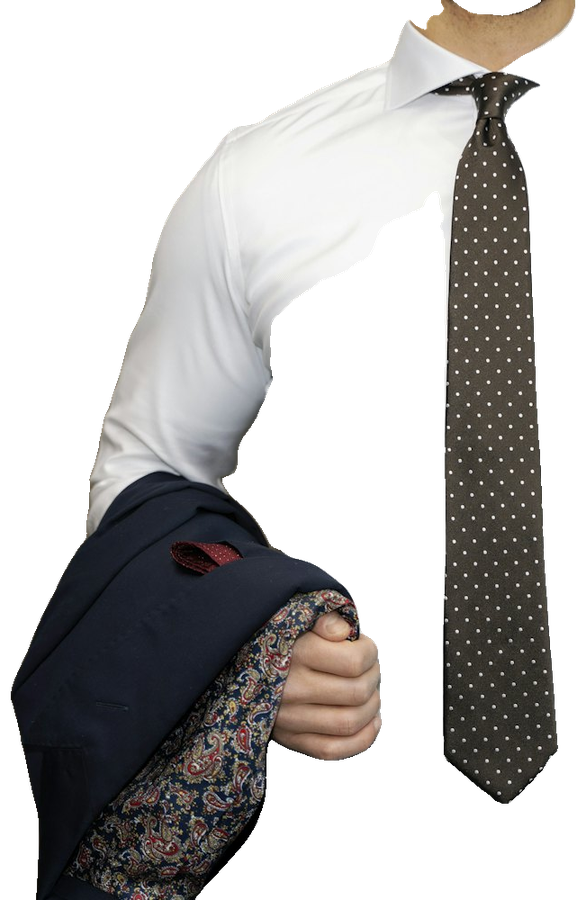
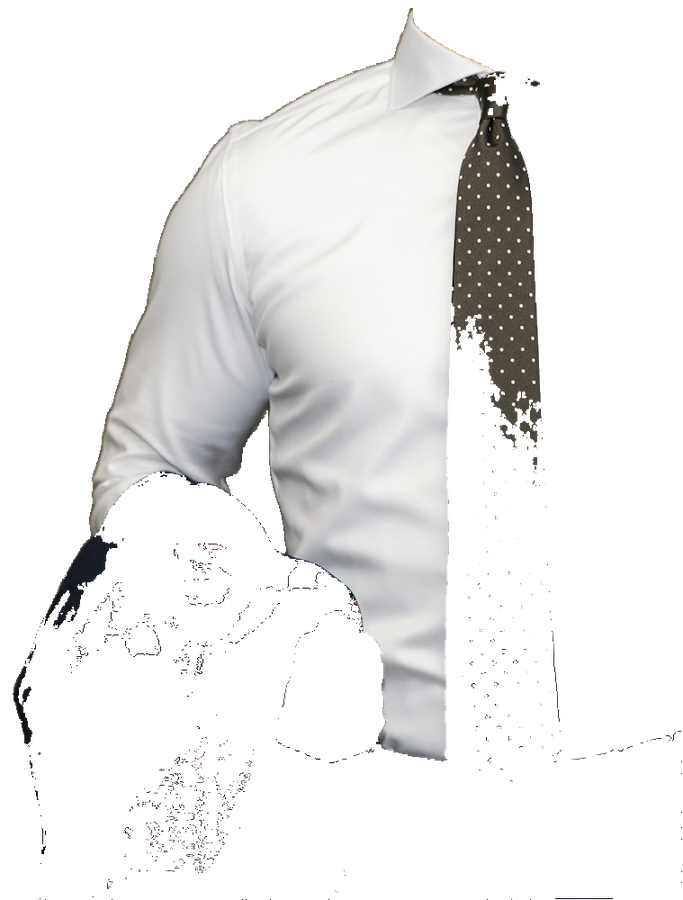
fix(vestidor): mangas de columna completa, linea de hombros medida en el PNG y prendas aisladas con segmentacion de ropa

diff --git a/mobile/lib/features/virtual_fitting/garment_painter.dart b/mobile/lib/features/virtual_fitting/garment_painter.dart
@@ -31,6 +31,42 @@ class PreviewMapper {
   }
 }
 
+/// Dónde está la línea de hombros dentro del PNG, como fracción de su alto.
+/// Se calcula mirando el alfa: la primera fila en la que la prenda ya es
+/// ancha. Así un gancho de percha o una mano angosta arriba no desplazan la
+/// prenda hacia abajo.
+Future<double> measureShoulderLine(ui.Image image) async {
+  final data = await image.toByteData(format: ui.ImageByteFormat.rawRgba);
+  if (data == null) return GarmentPainter.defaultShoulderY;
+  final w = image.width;
+  final h = image.height;
+  final step = math.max(1, (math.max(w, h) / 160).round());
+  final widths = <int>[];
+  for (var y = 0; y < h; y += step) {
+    var first = -1;
+    var last = -1;
+    for (var x = 0; x < w; x += step) {
+      if (data.getUint8((y * w + x) * 4 + 3) > 40) {
+        if (first < 0) first = x;
+        last = x;
+      }
+    }
+    widths.add(first < 0 ? 0 : last - first + step);
+  }
+  if (widths.isEmpty) return GarmentPainter.defaultShoulderY;
+  final maxWidth = widths.reduce(math.max);
+  if (maxWidth == 0) return GarmentPainter.defaultShoulderY;
+  for (var i = 0; i < widths.length; i++) {
+    if (widths[i] >= maxWidth * .6) {
+      final y = i * step / h;
+      // Un poco por debajo del borde: el cuello suele sobresalir de la línea
+      // de hombros.
+      return (y + .03).clamp(0, .5);
+    }
+  }
+  return GarmentPainter.defaultShoulderY;
+}
+
 /// Dibuja la prenda (PNG recortado o forma vectorial) siguiendo hombros y
 /// brazos, y opcionalmente los puntos del cuerpo.
 class GarmentPainter extends CustomPainter {
@@ -42,12 +78,18 @@ class GarmentPainter extends CustomPainter {
     required this.sleeves,
     required this.scale,
     required this.showPoints,
+    this.shoulderY = defaultShoulderY,
     this.showGarment = true,
   });
+
+  static const double defaultShoulderY = .08;
 
   final BodyPose? pose;
   final Size previewSize;
   final ui.Image? garment;
+
+  /// Fracción del alto del PNG donde está la línea de hombros.
+  final double shoulderY;
   final Color fallbackColor;
   final SleeveMode sleeves;
 
@@ -59,11 +101,11 @@ class GarmentPainter extends CustomPainter {
   // Proporciones del PNG (ya recortado a la silueta): los hombros caen en
   // x = 25 % / 75 % del ancho y en y = 8 % del alto; las mangas viven en las
   // franjas laterales.
+  // Las franjas laterales abarcan toda la altura: así la manga (corta o larga,
+  // colgando o extendida) rota entera con el brazo y no queda un pedazo
+  // pegado al torso. En manga larga la franja se parte a la altura del codo.
   static const double _shoulderX = .25;
-  static const double _shoulderY = .08;
-  static const double _shortSleeveBottom = .45;
   static const double _elbowY = .45;
-  static const double _longSleeveBottom = .82;
 
   /// Ángulo (respecto de la vertical) con el que cuelgan las mangas en la foto.
   static const double _restSpread = .30;
@@ -105,22 +147,15 @@ class GarmentPainter extends CustomPainter {
     canvas.translate(g.shoulderMid.x, g.shoulderMid.y);
     canvas.rotate(g.angle);
     canvas.scale(s);
-    canvas.translate(-w / 2, -h * _shoulderY);
+    canvas.translate(-w / 2, -h * shoulderY);
     if (sleeves != SleeveMode.none) {
-      final bottom = _sleeveBottom * h;
-      final clip = Path()
-        ..fillType = PathFillType.evenOdd
-        ..addRect(Rect.fromLTWH(0, 0, w, h))
-        ..addRect(Rect.fromLTWH(0, 0, w * _shoulderX, bottom))
-        ..addRect(Rect.fromLTWH(w * (1 - _shoulderX), 0, w * _shoulderX, bottom));
-      canvas.clipPath(clip);
+      canvas.clipRect(
+        Rect.fromLTWH(w * _shoulderX, 0, w * (1 - 2 * _shoulderX), h),
+      );
     }
     canvas.drawImage(image, Offset.zero, paint);
     canvas.restore();
   }
-
-  double get _sleeveBottom =>
-      sleeves == SleeveMode.long ? _longSleeveBottom : _shortSleeveBottom;
 
   void _paintSleeve(
     Canvas canvas,
@@ -149,7 +184,7 @@ class GarmentPainter extends CustomPainter {
         rotation: arm.upper.angle - rest,
         scale: s,
         src: Rect.fromLTWH(stripX, 0, stripWidth, upperBottom),
-        offset: Offset(-anchorX, -h * _shoulderY),
+        offset: Offset(-anchorX, -h * shoulderY),
       );
       _drawStrip(
         canvas,
@@ -158,12 +193,7 @@ class GarmentPainter extends CustomPainter {
         anchor: arm.lower.start,
         rotation: arm.lower.angle - rest,
         scale: s,
-        src: Rect.fromLTWH(
-          stripX,
-          upperBottom,
-          stripWidth,
-          h * (_longSleeveBottom - _elbowY),
-        ),
+        src: Rect.fromLTWH(stripX, upperBottom, stripWidth, h - upperBottom),
         offset: Offset(-stripWidth / 2, 0),
       );
       return;
@@ -175,8 +205,8 @@ class GarmentPainter extends CustomPainter {
       anchor: arm.upper.start,
       rotation: arm.upper.angle - rest,
       scale: s,
-      src: Rect.fromLTWH(stripX, 0, stripWidth, h * _shortSleeveBottom),
-      offset: Offset(-anchorX, -h * _shoulderY),
+      src: Rect.fromLTWH(stripX, 0, stripWidth, h),
+      offset: Offset(-anchorX, -h * shoulderY),
     );
   }
 

diff --git a/mobile/lib/features/virtual_fitting/virtual_fitting_sheet.dart b/mobile/lib/features/virtual_fitting/virtual_fitting_sheet.dart
@@ -62,6 +62,7 @@ class _VirtualFittingSheetState extends State<VirtualFittingSheet>
   bool _loggedFrame = false;
 
   ui.Image? _garment;
+  double _garmentShoulderY = GarmentPainter.defaultShoulderY;
   bool _garmentIsOverlay = false;
   bool _garmentFailed = false;
   ImageStream? _garmentStream;
@@ -131,10 +132,13 @@ class _VirtualFittingSheetState extends State<VirtualFittingSheet>
     final isOverlay = url == widget.overlayUrl?.trim();
     final stream = NetworkImage(url).resolve(ImageConfiguration.empty);
     final listener = ImageStreamListener(
-      (info, _) {
+      (info, _) async {
+        if (!mounted) return;
+        final shoulderY = await measureShoulderLine(info.image);
         if (!mounted) return;
         setState(() {
           _garment = info.image;
+          _garmentShoulderY = shoulderY;
           _garmentIsOverlay = isOverlay;
           _garmentFailed = false;
         });
@@ -535,6 +539,7 @@ class _VirtualFittingSheetState extends State<VirtualFittingSheet>
                 fallbackColor: color,
                 sleeves: _sleeves,
                 scale: _garmentIsOverlay ? widget.overlayScale : 1,
+                shoulderY: _garmentShoulderY,
                 showPoints: _showPoints,
               ),
             ),
